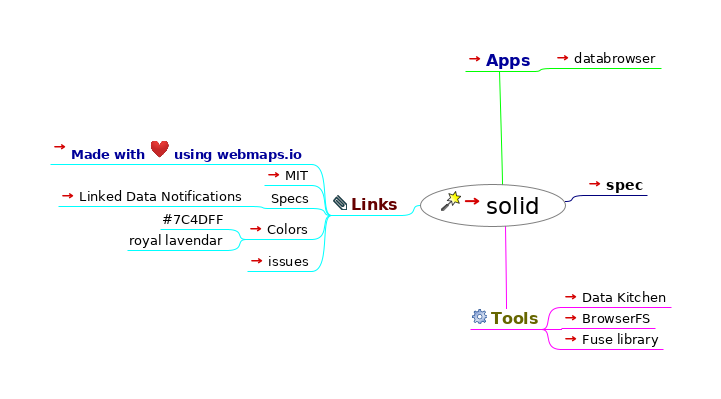
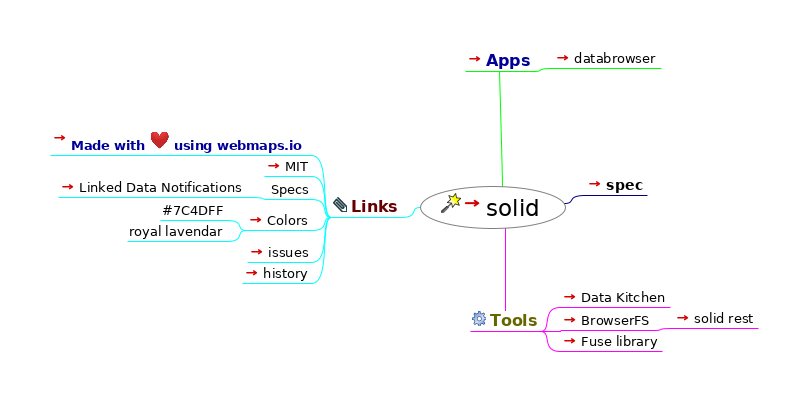
add solid rest

diff --git a/index.html b/index.html
@@ -1,5 +1,5 @@
 <?xml version="1.0" encoding="UTF-8"?><!DOCTYPE html PUBLIC "-//W3C//DTD XHTML 1.1//EN" "http://www.w3.org/TR/xhtml11/DTD/xhtml11.dtd">
-<html xmlns="http://www.w3.org/1999/xhtml"><meta http-equiv="Content-Type" content="text/html; charset=UTF-8" /><!--This file has been created with freeplane2html.xsl--><head><title>solid</title><link rel="stylesheet" href="index.html_files/freeplane2html.css" type="text/css" /><meta name="generator" content="Freeplane-XSL Stylesheet (see: http://freeplane-xsl.dev.slash-me.net/ for details)" /><script type="text/javascript" src="index.html_files/freeplane2html.js"> 
+<html xmlns="http://www.w3.org/1999/xhtml"><meta http-equiv="Content-Type" content="text/html; charset=UTF-8" /><!--This file has been created with processhtml.sh--><head><title>solid</title><link rel="stylesheet" href="index.html_files/freeplane2html.css" type="text/css" /><meta name="generator" content="Freeplane-XSL Stylesheet (see: http://freeplane-xsl.dev.slash-me.net/ for details)" /><script type="text/javascript" src="index.html_files/freeplane2html.js"> 
 	</script><script type="text/javascript"><!--
           
                function toggle(id)
@@ -23,26 +23,28 @@
                    };
                };
           
-          --></script></head><body><h1>solid</h1><div style="width:96%;  padding:2%;  margin-bottom:10px;  border: 0px;  text-align:center;  vertical-align:center;"><img src="index.html_files/image.png" style="margin-bottom:10px; &#9;border: 0px; &#9;text-align:center; &#9;vertical-align:center;" alt="Imagemap" usemap="#fm_imagemap" /></div><map name="fm_imagemap" id="fm_imagemap"><area shape="rect" href="#FMID_237352286FM" alt="solid" title="solid" coords="420,184,566,227" />
-<area shape="rect" href="#FMID_1861071781FM" alt="Apps" title="Apps" coords="465,51,534,71" />
-<area shape="rect" href="#FMID_589909741FM" alt="databrowser" title="databrowser" coords="553,50,661,68" />
-<area shape="rect" href="#FMID_45632273FM" alt="spec" title="spec" coords="585,176,647,195" />
-<area shape="rect" href="#FMID_1810859973FM" alt="Tools" title="Tools" coords="470,309,542,329" />
-<area shape="rect" href="#FMID_464490085FM" alt="Data Kitchen" title="Data Kitchen" coords="561,289,671,307" />
-<area shape="rect" href="#FMID_254470917FM" alt="BrowserFS" title="BrowserFS" coords="561,310,655,328" />
-<area shape="rect" href="#FMID_845285837FM" alt="Fuse library" title="Fuse library" coords="561,331,663,349" />
-<area shape="rect" href="#FMID_777477932FM" alt="Links" title="Links" coords="331,195,401,215" />
-<area shape="rect" href="#FMID_1974475433FM" alt="Made with  using webmaps.io" title="Made with  using webmaps.io" coords="50,139,312,164" />
-<area shape="rect" href="#FMID_671925292FM" alt="MIT" title="MIT" coords="264,167,312,185" />
-<area shape="rect" href="#FMID_1604622862FM" alt="Specs" title="Specs" coords="269,190,312,208" />
-<area shape="rect" href="#FMID_1990139043FM" alt="Linked Data Notifications" title="Linked Data Notifications" coords="58,188,250,206" />
-<area shape="rect" href="#FMID_960031878FM" alt="Colors" title="Colors" coords="246,221,312,239" />
-<area shape="rect" href="#FMID_1864362129FM" alt="#7C4DFF" title="#7C4DFF" coords="160,211,227,229" />
-<area shape="rect" href="#FMID_1993946970FM" alt="royal lavendar" title="royal lavendar" coords="127,232,227,250" />
-<area shape="rect" href="#FMID_1662681886FM" alt="issues" title="issues" coords="247,253,312,271" />
+          --></script></head><body><h1>solid</h1><div style="width:96%;  padding:2%;  margin-bottom:10px;  border: 0px;  text-align:center;  vertical-align:center;"><img src="index.html_files/image.png" style="margin-bottom:10px; &#9;border: 0px; &#9;text-align:center; &#9;vertical-align:center;" alt="Imagemap" usemap="#fm_imagemap" /></div><map name="fm_imagemap" id="fm_imagemap"><area shape="rect" href="../tech/index.html" alt="solid" title="solid" coords="420,186,566,229" />
+<area shape="rect" href="apps/index.html" alt="Apps" title="Apps" coords="465,51,534,71" />
+<area shape="rect" href="databrowser/index.html" alt="databrowser" title="databrowser" coords="553,50,661,68" />
+<area shape="rect" href="spec/index.html" alt="spec" title="spec" coords="585,176,647,195" />
+<area shape="rect" href="#FMID_1810859973FM" alt="Tools" title="Tools" coords="470,311,541,331" />
+<area shape="rect" href="https://github.com/solid/data-kitchen" alt="Data Kitchen" title="Data Kitchen" coords="560,289,670,307" />
+<area shape="rect" href="https://github.com/jvilk/BrowserFS" alt="BrowserFS" title="BrowserFS" coords="560,312,654,330" />
+<area shape="rect" href="https://github.com/jeff-zucker/solid-rest/tree/browserFS" alt="solid rest" title="solid rest" coords="673,310,758,328" />
+<area shape="rect" href="https://github.com/fuse-friends/fuse-native" alt="Fuse library" title="Fuse library" coords="560,333,662,351" />
+<area shape="rect" href="#FMID_777477932FM" alt="Links" title="Links" coords="331,197,401,217" />
+<area shape="rect" href="https://webmaps.io/" alt="Made with  using webmaps.io" title="Made with  using webmaps.io" coords="50,130,312,155" />
+<area shape="rect" href="https://solid.mit.edu" alt="MIT" title="MIT" coords="264,158,312,176" />
+<area shape="rect" href="#FMID_1604622862FM" alt="Specs" title="Specs" coords="269,181,312,199" />
+<area shape="rect" href="https://www.w3.org/TR/ldn/" alt="Linked Data Notifications" title="Linked Data Notifications" coords="58,179,250,197" />
+<area shape="rect" href="https://design.inrupt.com/atomic-core/?cat=Core#Colors" alt="Colors" title="Colors" coords="246,212,312,230" />
+<area shape="rect" href="#FMID_1864362129FM" alt="#7C4DFF" title="#7C4DFF" coords="160,202,227,220" />
+<area shape="rect" href="#FMID_1993946970FM" alt="royal lavendar" title="royal lavendar" coords="127,223,227,241" />
+<area shape="rect" href="issues/index.html" alt="issues" title="issues" coords="247,244,312,262" />
+<area shape="rect" href="https://www.w3.org/wiki/Socialwg/2015-03-18-minutes" alt="history" title="history" coords="242,265,312,283" />
 </map>
 
-<div class="node"><img src="index.html_files/hide.png" class="hideshow" alt="hide" onClick="toggle(&quot;N65543&quot;)" id="imgN65543" /><img src="index.html_files/icons/wizard.png" alt="wizard" /> <a id="FMID_237352286FM" /><div class="nodecontent" style="color:#000000;font-size:150%;"><a href="../tech/index.mm">solid</a> <a href="../tech/index.mm"><img src="index.html_files/ilink.png" alt="User Link" style="border-width:0" /></a></div><div class="content" id="N65543"><div class="node"><img src="index.html_files/hide.png" class="hideshow" alt="hide" onClick="toggle(&quot;N66445&quot;)" id="imgN66445" /><a id="FMID_1861071781FM" /><div class="nodecontent" style="color:#000099;font-size:100%;font-weight:bold;"><a href="apps/index.mm">Apps</a> <a href="apps/index.mm"><img src="index.html_files/ilink.png" alt="User Link" style="border-width:0" /></a></div><div class="content" id="N66445"><div class="node"><img src="index.html_files/leaf.png" class="hideshow" alt="leaf" /><a id="FMID_589909741FM" /><div class="nodecontent" style="color:#000000;font-size:83%;"><a href="databrowser/index.mm">databrowser</a> <a href="databrowser/index.mm"><img src="index.html_files/ilink.png" alt="User Link" style="border-width:0" /></a></div></div></div></div><div class="node"><img src="index.html_files/leaf.png" class="hideshow" alt="leaf" /><a id="FMID_45632273FM" /><div class="nodecontent" style="color:#000000;font-size:92%;font-weight:bold;"><a href="spec/index.mm">spec</a> <a href="spec/index.mm"><img src="index.html_files/ilink.png" alt="User Link" style="border-width:0" /></a></div></div><div class="node"><img src="index.html_files/hide.png" class="hideshow" alt="hide" onClick="toggle(&quot;N66560&quot;)" id="imgN66560" /><img src="index.html_files/icons/executable.png" alt="executable" /> <a id="FMID_1810859973FM" /><div class="nodecontent" style="color:#666600;font-size:100%;font-weight:bold;">Tools</div><div class="content" id="N66560"><div class="node"><img src="index.html_files/leaf.png" class="hideshow" alt="leaf" /><a id="FMID_464490085FM" /><div class="nodecontent" style="color:#000000;font-size:83%;"><a href="https://github.com/solid/data-kitchen">Data Kitchen</a> <a href="https://github.com/solid/data-kitchen"><img src="index.html_files/ilink.png" alt="User Link" style="border-width:0" /></a></div></div><div class="node"><img src="index.html_files/leaf.png" class="hideshow" alt="leaf" /><a id="FMID_254470917FM" /><div class="nodecontent" style="color:#000000;font-size:83%;"><a href="https://github.com/jvilk/BrowserFS">BrowserFS</a> <a href="https://github.com/jvilk/BrowserFS"><img src="index.html_files/ilink.png" alt="User Link" style="border-width:0" /></a></div></div><div class="node"><img src="index.html_files/leaf.png" class="hideshow" alt="leaf" /><a id="FMID_845285837FM" /><div class="nodecontent" style="color:#000000;font-size:83%;"><a href="https://github.com/fuse-friends/fuse-native">Fuse library</a> <a href="https://github.com/fuse-friends/fuse-native"><img src="index.html_files/ilink.png" alt="User Link" style="border-width:0" /></a></div></div></div></div><div class="node"><img src="index.html_files/hide.png" class="hideshow" alt="hide" onClick="toggle(&quot;N66715&quot;)" id="imgN66715" /><img src="index.html_files/icons/attach.png" alt="attach" /> <a id="FMID_777477932FM" /><div class="nodecontent" style="color:#660000;font-size:100%;font-weight:bold;">Links</div><div class="content" id="N66715"><div class="node"><img src="index.html_files/leaf.png" class="hideshow" alt="leaf" /><a id="FMID_1974475433FM" /><div class="nodecontent" style="color:#000099;font-size:83%;font-weight:bold;"><a href="https://webmaps.io/">
+<div class="node"><img src="index.html_files/hide.png" class="hideshow" alt="hide" onClick="toggle(&quot;N65543&quot;)" id="imgN65543" /><img src="index.html_files/icons/wizard.svg" alt="wizard" /> <a id="FMID_237352286FM" /><div class="nodecontent" style="color:#000000;font-size:150%;"><a href="../tech/index.html">solid</a> <a href="../tech/index.html"><img src="index.html_files/ilink.png" alt="User Link" style="border-width:0" /></a></div><div class="content" id="N65543"><div class="node"><img src="index.html_files/hide.png" class="hideshow" alt="hide" onClick="toggle(&quot;N66445&quot;)" id="imgN66445" /><a id="FMID_1861071781FM" /><div class="nodecontent" style="color:#000099;font-size:100%;font-weight:bold;"><a href="apps/index.html">Apps</a> <a href="apps/index.html"><img src="index.html_files/ilink.png" alt="User Link" style="border-width:0" /></a></div><div class="content" id="N66445"><div class="node"><img src="index.html_files/leaf.png" class="hideshow" alt="leaf" /><a id="FMID_589909741FM" /><div class="nodecontent" style="color:#000000;font-size:83%;"><a href="databrowser/index.html">databrowser</a> <a href="databrowser/index.html"><img src="index.html_files/ilink.png" alt="User Link" style="border-width:0" /></a></div></div></div></div><div class="node"><img src="index.html_files/leaf.png" class="hideshow" alt="leaf" /><a id="FMID_45632273FM" /><div class="nodecontent" style="color:#000000;font-size:92%;font-weight:bold;"><a href="spec/index.html">spec</a> <a href="spec/index.html"><img src="index.html_files/ilink.png" alt="User Link" style="border-width:0" /></a></div></div><div class="node"><img src="index.html_files/hide.png" class="hideshow" alt="hide" onClick="toggle(&quot;N66560&quot;)" id="imgN66560" /><img src="index.html_files/icons/executable.svg" alt="executable" /> <a id="FMID_1810859973FM" /><div class="nodecontent" style="color:#666600;font-size:100%;font-weight:bold;">Tools</div><div class="content" id="N66560"><div class="node"><img src="index.html_files/leaf.png" class="hideshow" alt="leaf" /><a id="FMID_464490085FM" /><div class="nodecontent" style="color:#000000;font-size:83%;"><a href="https://github.com/solid/data-kitchen">Data Kitchen</a> <a href="https://github.com/solid/data-kitchen"><img src="index.html_files/ilink.png" alt="User Link" style="border-width:0" /></a></div></div><div class="node"><img src="index.html_files/hide.png" class="hideshow" alt="hide" onClick="toggle(&quot;N66640&quot;)" id="imgN66640" /><a id="FMID_254470917FM" /><div class="nodecontent" style="color:#000000;font-size:83%;"><a href="https://github.com/jvilk/BrowserFS">BrowserFS</a> <a href="https://github.com/jvilk/BrowserFS"><img src="index.html_files/ilink.png" alt="User Link" style="border-width:0" /></a></div><div class="content" id="N66640"><div class="node"><img src="index.html_files/leaf.png" class="hideshow" alt="leaf" /><a id="FMID_1269514055FM" /><div class="nodecontent" style="color:#000000;font-size:83%;"><a href="https://github.com/jeff-zucker/solid-rest/tree/browserFS">solid rest</a> <a href="https://github.com/jeff-zucker/solid-rest/tree/browserFS"><img src="index.html_files/ilink.png" alt="User Link" style="border-width:0" /></a></div></div></div></div><div class="node"><img src="index.html_files/leaf.png" class="hideshow" alt="leaf" /><a id="FMID_845285837FM" /><div class="nodecontent" style="color:#000000;font-size:83%;"><a href="https://github.com/fuse-friends/fuse-native">Fuse library</a> <a href="https://github.com/fuse-friends/fuse-native"><img src="index.html_files/ilink.png" alt="User Link" style="border-width:0" /></a></div></div></div></div><div class="node"><img src="index.html_files/hide.png" class="hideshow" alt="hide" onClick="toggle(&quot;N66752&quot;)" id="imgN66752" /><img src="index.html_files/icons/attach.svg" alt="attach" /> <a id="FMID_777477932FM" /><div class="nodecontent" style="color:#660000;font-size:100%;font-weight:bold;">Links</div><div class="content" id="N66752"><div class="node"><img src="index.html_files/leaf.png" class="hideshow" alt="leaf" /><a id="FMID_1974475433FM" /><div class="nodecontent" style="color:#000099;font-size:83%;font-weight:bold;"><a href="https://webmaps.io/">
     Made with <img class="emoji" alt="heart" height="20" width="20" src="https://github.githubassets.com/images/icons/emoji/unicode/2764.png" style="border-top-style: none; border-right-style: none; border-bottom-style: none; border-left-style: none" /> using webmaps.io
-  </a> <a href="https://webmaps.io/"><img src="index.html_files/ilink.png" alt="User Link" style="border-width:0" /></a></div></div><div class="node"><img src="index.html_files/leaf.png" class="hideshow" alt="leaf" /><a id="FMID_671925292FM" /><div class="nodecontent" style="color:#000000;font-size:83%;"><a href="https://solid.mit.edu">MIT</a> <a href="https://solid.mit.edu"><img src="index.html_files/ilink.png" alt="User Link" style="border-width:0" /></a></div></div><div class="node"><img src="index.html_files/hide.png" class="hideshow" alt="hide" onClick="toggle(&quot;N66850&quot;)" id="imgN66850" /><a id="FMID_1604622862FM" /><div class="nodecontent" style="color:#000000;font-size:83%;">Specs</div><div class="content" id="N66850"><div class="node"><img src="index.html_files/leaf.png" class="hideshow" alt="leaf" /><a id="FMID_1990139043FM" /><div class="nodecontent" style="color:#000000;font-size:83%;"><a href="https://www.w3.org/TR/ldn/">Linked Data Notifications</a> <a href="https://www.w3.org/TR/ldn/"><img src="index.html_files/ilink.png" alt="User Link" style="border-width:0" /></a></div></div></div></div><div class="node"><img src="index.html_files/hide.png" class="hideshow" alt="hide" onClick="toggle(&quot;N66923&quot;)" id="imgN66923" /><a id="FMID_960031878FM" /><div class="nodecontent" style="color:#000000;font-size:83%;"><a href="https://design.inrupt.com/atomic-core/?cat=Core#Colors">Colors</a> <a href="https://design.inrupt.com/atomic-core/?cat=Core#Colors"><img src="index.html_files/ilink.png" alt="User Link" style="border-width:0" /></a></div><div class="content" id="N66923"><div class="node"><img src="index.html_files/leaf.png" class="hideshow" alt="leaf" /><a id="FMID_1864362129FM" /><div class="nodecontent" style="color:#000000;font-size:83%;">#7C4DFF</div></div><div class="node"><img src="index.html_files/leaf.png" class="hideshow" alt="leaf" /><a id="FMID_1993946970FM" /><div class="nodecontent" style="color:#000000;font-size:83%;">royal lavendar</div></div></div></div><div class="node"><img src="index.html_files/leaf.png" class="hideshow" alt="leaf" /><a id="FMID_1662681886FM" /><div class="nodecontent" style="color:#000000;font-size:83%;"><a href="issues/index.mm">issues</a> <a href="issues/index.mm"><img src="index.html_files/ilink.png" alt="User Link" style="border-width:0" /></a></div></div></div></div></div></div>
+  </a> <a href="https://webmaps.io/"><img src="index.html_files/ilink.png" alt="User Link" style="border-width:0" /></a></div></div><div class="node"><img src="index.html_files/leaf.png" class="hideshow" alt="leaf" /><a id="FMID_671925292FM" /><div class="nodecontent" style="color:#000000;font-size:83%;"><a href="https://solid.mit.edu">MIT</a> <a href="https://solid.mit.edu"><img src="index.html_files/ilink.png" alt="User Link" style="border-width:0" /></a></div></div><div class="node"><img src="index.html_files/hide.png" class="hideshow" alt="hide" onClick="toggle(&quot;N66887&quot;)" id="imgN66887" /><a id="FMID_1604622862FM" /><div class="nodecontent" style="color:#000000;font-size:83%;">Specs</div><div class="content" id="N66887"><div class="node"><img src="index.html_files/leaf.png" class="hideshow" alt="leaf" /><a id="FMID_1990139043FM" /><div class="nodecontent" style="color:#000000;font-size:83%;"><a href="https://www.w3.org/TR/ldn/">Linked Data Notifications</a> <a href="https://www.w3.org/TR/ldn/"><img src="index.html_files/ilink.png" alt="User Link" style="border-width:0" /></a></div></div></div></div><div class="node"><img src="index.html_files/hide.png" class="hideshow" alt="hide" onClick="toggle(&quot;N66960&quot;)" id="imgN66960" /><a id="FMID_960031878FM" /><div class="nodecontent" style="color:#000000;font-size:83%;"><a href="https://design.inrupt.com/atomic-core/?cat=Core#Colors">Colors</a> <a href="https://design.inrupt.com/atomic-core/?cat=Core#Colors"><img src="index.html_files/ilink.png" alt="User Link" style="border-width:0" /></a></div><div class="content" id="N66960"><div class="node"><img src="index.html_files/leaf.png" class="hideshow" alt="leaf" /><a id="FMID_1864362129FM" /><div class="nodecontent" style="color:#000000;font-size:83%;">#7C4DFF</div></div><div class="node"><img src="index.html_files/leaf.png" class="hideshow" alt="leaf" /><a id="FMID_1993946970FM" /><div class="nodecontent" style="color:#000000;font-size:83%;">royal lavendar</div></div></div></div><div class="node"><img src="index.html_files/leaf.png" class="hideshow" alt="leaf" /><a id="FMID_1662681886FM" /><div class="nodecontent" style="color:#000000;font-size:83%;"><a href="issues/index.html">issues</a> <a href="issues/index.html"><img src="index.html_files/ilink.png" alt="User Link" style="border-width:0" /></a></div></div><div class="node"><img src="index.html_files/leaf.png" class="hideshow" alt="leaf" /><a id="FMID_1693475953FM" /><div class="nodecontent" style="color:#000000;font-size:83%;"><a href="https://www.w3.org/wiki/Socialwg/2015-03-18-minutes">history</a> <a href="https://www.w3.org/wiki/Socialwg/2015-03-18-minutes"><img src="index.html_files/ilink.png" alt="User Link" style="border-width:0" /></a></div></div></div></div></div></div>
 </body></html>

diff --git a/index.ppt.html b/index.ppt.html
@@ -9,10 +9,10 @@
         <meta name="apple-mobile-web-app-capable" content="yes">
         <meta name="apple-mobile-web-app-status-bar-style" content="black-translucent">
         <meta name="viewport" content="width=device-width, initial-scale=1.0, maximum-scale=1.0, user-scalable=no">
-        <link rel="stylesheet" href="https://cdn.rawgit.com/hakimel/reveal.js/3.3.0//css/reveal.css">
-        <link rel="stylesheet" id="theme" href="https://cdn.rawgit.com/hakimel/reveal.js/3.3.0//css/theme/sky.css">
+        <link rel="stylesheet" href="https://solidpayorg.github.io/reveal.js/css/reveal.css">
+        <link rel="stylesheet" id="theme" href="https://solidpayorg.github.io/reveal.js/css/theme/solid.css">
         <!--For syntax highlighting-->
-        <link rel="stylesheet" href="https://cdn.rawgit.com/hakimel/reveal.js/3.3.0//lib/css/zenburn.css">
+        <link rel="stylesheet" href="https://solidpayorg.github.io/reveal.js/lib/css/zenburn.css">
         <style type="text/css">
             a.connector, a.subsection {margin-left: 1ex; font-size: smaller}
             .illustrations a {float:left; margin: 1ex 5px; max-width:100%}
@@ -37,11 +37,11 @@
         </style>
         <!--If the query includes 'print-pdf', use the PDF print sheet. works in Chrome, maybe not other browsers-->
         <script type="text/javascript">
-        document.write( '<link rel="stylesheet" href="https://cdn.rawgit.com/hakimel/reveal.js/3.3.0//css/print/' + ( window.location.search.match( /print-pdf/gi ) ? 'pdf' : 'paper' ) + '.css" type="text/css" media="print" />' );
+        document.write( '<link rel="stylesheet" href="https://solidpayorg.github.io/reveal.js/css/print/' + ( window.location.search.match( /print-pdf/gi ) ? 'pdf' : 'paper' ) + '.css" type="text/css" media="print" />' );
         </script>
         <!--
             [if lt IE 9]>
-            <script src="https://cdn.rawgit.com/hakimel/reveal.js/3.3.0//lib/js/html5shiv.js"></script>
+            <script src="https://solidpayorg.github.io/reveal.js/lib/js/html5shiv.js"></script>
             <![endif]
         -->
         <!--placeholder for custom header items (typically scripts or stylesheets)-->
@@ -75,19 +75,30 @@
                         </li>
                     </ul>
                 </section>
-                <section class="content" id="ID_1810859973">
-                    <h3>Tools</h3>
-                    <ul>
-                        <li>
-                            <a href="https://github.com/solid/data-kitchen" class="link external">Data Kitchen</a>
-                        </li>
-                        <li>
-                            <a href="https://github.com/jvilk/BrowserFS" class="link external">BrowserFS</a>
-                        </li>
-                        <li>
-                            <a href="https://github.com/fuse-friends/fuse-native" class="link external">Fuse library</a>
-                        </li>
-                    </ul>
+                <!--new subsection-->
+                <section>
+                    <section class="content" id="ID_1810859973">
+                        <h3>Tools</h3>
+                        <ul>
+                            <li>
+                                <a href="https://github.com/solid/data-kitchen" class="link external">Data Kitchen</a>
+                            </li>
+                            <li>
+                                BrowserFS<a href="#/ID_254470917" class="link subsection"> &#8628;</a>
+                            </li>
+                            <li>
+                                <a href="https://github.com/fuse-friends/fuse-native" class="link external">Fuse library</a>
+                            </li>
+                        </ul>
+                    </section>
+                    <section class="content" id="ID_254470917">
+                        <h4>BrowserFS</h4>
+                        <ul>
+                            <li>
+                                <a href="https://github.com/jeff-zucker/solid-rest/tree/browserFS" class="link external">solid rest</a>
+                            </li>
+                        </ul>
+                    </section>
                 </section>
                 <!--new subsection-->
                 <section>
@@ -110,6 +121,9 @@
                             </li>
                             <li>
                                 <a href="issues/index.mm" class="link external">issues</a>
+                            </li>
+                            <li>
+                                <a href="https://www.w3.org/wiki/Socialwg/2015-03-18-minutes" class="link external">history</a>
                             </li>
                         </ul>
                     </section>
@@ -142,7 +156,7 @@
         <footer class="info">
             solid | <a href="http://berteh.github.io/mindslide/">Mindslide</a> v 0.5 |  <a href="http://freeplane.sourceforge.net/">Freeplane</a> map vfreeplane 1.7.0
         </footer>
-        <script src="https://cdn.rawgit.com/hakimel/reveal.js/3.3.0//lib/js/head.min.js"></script><script src="https://cdn.rawgit.com/hakimel/reveal.js/3.3.0//js/reveal.js"></script><script>
+        <script src="https://solidpayorg.github.io/reveal.js/lib/js/head.min.js"></script><script src="https://solidpayorg.github.io/reveal.js/js/reveal.js"></script><script>
 
 	//run reveal.js
 	// Full list of configuration options available here:
@@ -178,19 +192,19 @@
 		parallaxBackgroundHorizontal: null,
 		parallaxBackgroundVertical: null,
 
-		theme: Reveal.getQueryHash().theme || 'sky',
+		theme: Reveal.getQueryHash().theme || 'solid',
 		transition: Reveal.getQueryHash().transition || 'cube',
 
 		
         // Optional libraries used to extend on reveal.js - see https://github.com/hakimel/reveal.js#dependencies
         dependencies: [
-          { src:'https://cdn.rawgit.com/hakimel/reveal.js/3.3.0//lib/js/classList.js', condition: function() { return !document.body.classList; } },
-          { src:'https://cdn.rawgit.com/hakimel/reveal.js/3.3.0//plugin/highlight/highlight.js', async: true, callback: function() { hljs.initHighlightingOnLoad(); } },
-          { src:'https://cdn.rawgit.com/hakimel/reveal.js/3.3.0//plugin/zoom-js/zoom.js', async: true, condition: function() { return !!document.body.classList; } },
-          { src:'https://cdn.rawgit.com/hakimel/reveal.js/3.3.0//plugin/notes/notes.js', async: true, condition: function() { return !!document.body.classList; } }
-          //{ src:'https://cdn.rawgit.com/hakimel/reveal.js/3.3.0//plugin/markdown/marked.js', condition: function() { return !!document.querySelector('[data-markdown]' ); } },
-          //{ src:'https://cdn.rawgit.com/hakimel/reveal.js/3.3.0//plugin/markdown/markdown.js', condition: function() { return !!document.querySelector('[data-markdown]' ); } },
-		  //{ src:'https://cdn.rawgit.com/hakimel/reveal.js/3.3.0//plugin/math/math.js', async: true }
+          { src:'https://solidpayorg.github.io/reveal.js/lib/js/classList.js', condition: function() { return !document.body.classList; } },
+          { src:'https://solidpayorg.github.io/reveal.js/plugin/highlight/highlight.js', async: true, callback: function() { hljs.initHighlightingOnLoad(); } },
+          { src:'https://solidpayorg.github.io/reveal.js/plugin/zoom-js/zoom.js', async: true, condition: function() { return !!document.body.classList; } },
+          { src:'https://solidpayorg.github.io/reveal.js/plugin/notes/notes.js', async: true, condition: function() { return !!document.body.classList; } }
+          //{ src:'https://solidpayorg.github.io/reveal.js/plugin/markdown/marked.js', condition: function() { return !!document.querySelector('[data-markdown]' ); } },
+          //{ src:'https://solidpayorg.github.io/reveal.js/plugin/markdown/markdown.js', condition: function() { return !!document.querySelector('[data-markdown]' ); } },
+		  //{ src:'https://solidpayorg.github.io/reveal.js/plugin/math/math.js', async: true }
 		]
     	
     });

diff --git a/index.mm b/index.mm
@@ -81,7 +81,9 @@
 <font SIZE="12" BOLD="true"/>
 <edge COLOR="#ff00ff"/>
 <node TEXT="Data Kitchen" ID="ID_464490085" CREATED="1573024190055" MODIFIED="1573024327376" LINK="https://github.com/solid/data-kitchen"/>
-<node TEXT="BrowserFS" ID="ID_254470917" CREATED="1573155072181" MODIFIED="1573155078101" LINK="https://github.com/jvilk/BrowserFS"/>
+<node TEXT="BrowserFS" ID="ID_254470917" CREATED="1573155072181" MODIFIED="1573155078101" LINK="https://github.com/jvilk/BrowserFS">
+<node TEXT="solid rest" ID="ID_1269514055" CREATED="1579817003480" MODIFIED="1579817386779" LINK="https://github.com/jeff-zucker/solid-rest/tree/browserFS"/>
+</node>
 <node TEXT="Fuse library" ID="ID_845285837" CREATED="1577063008573" MODIFIED="1577082125436" LINK="https://github.com/fuse-friends/fuse-native"/>
 </node>
 <node TEXT="Links" POSITION="left" ID="ID_777477932" CREATED="1572063875737" MODIFIED="1572064427848" COLOR="#660000">
@@ -112,6 +114,7 @@
 <node TEXT="issues" ID="ID_1662681886" CREATED="1577601478570" MODIFIED="1577601478579" LINK="issues/index.mm">
 <edge STYLE="bezier" COLOR="#00ffff" WIDTH="thin"/>
 </node>
+<node TEXT="history" ID="ID_1693475953" CREATED="1579694166408" MODIFIED="1579694170918" LINK="https://www.w3.org/wiki/Socialwg/2015-03-18-minutes"/>
 </node>
 </node>
 </map>
